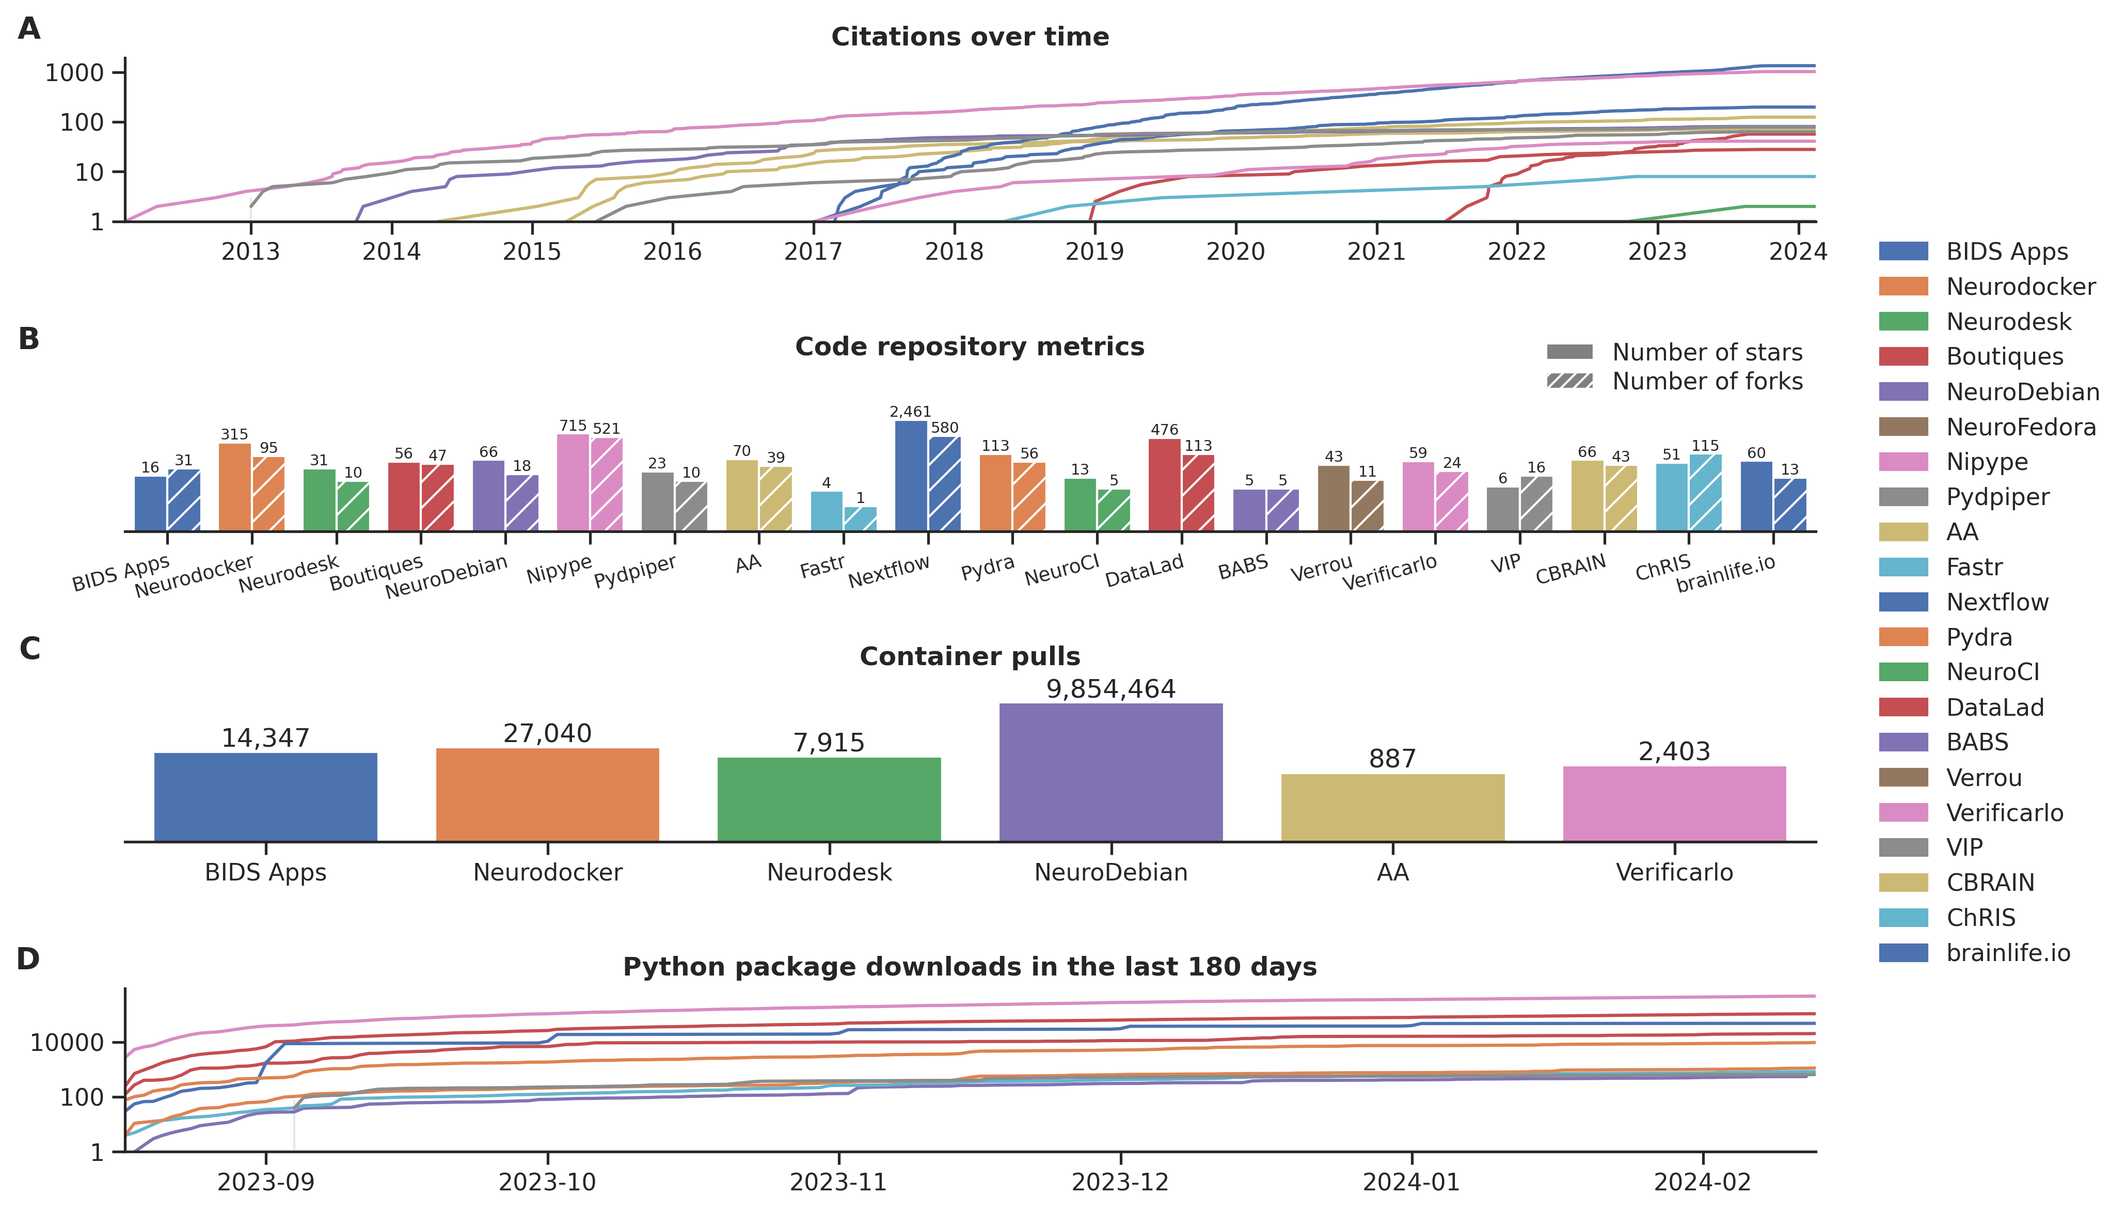
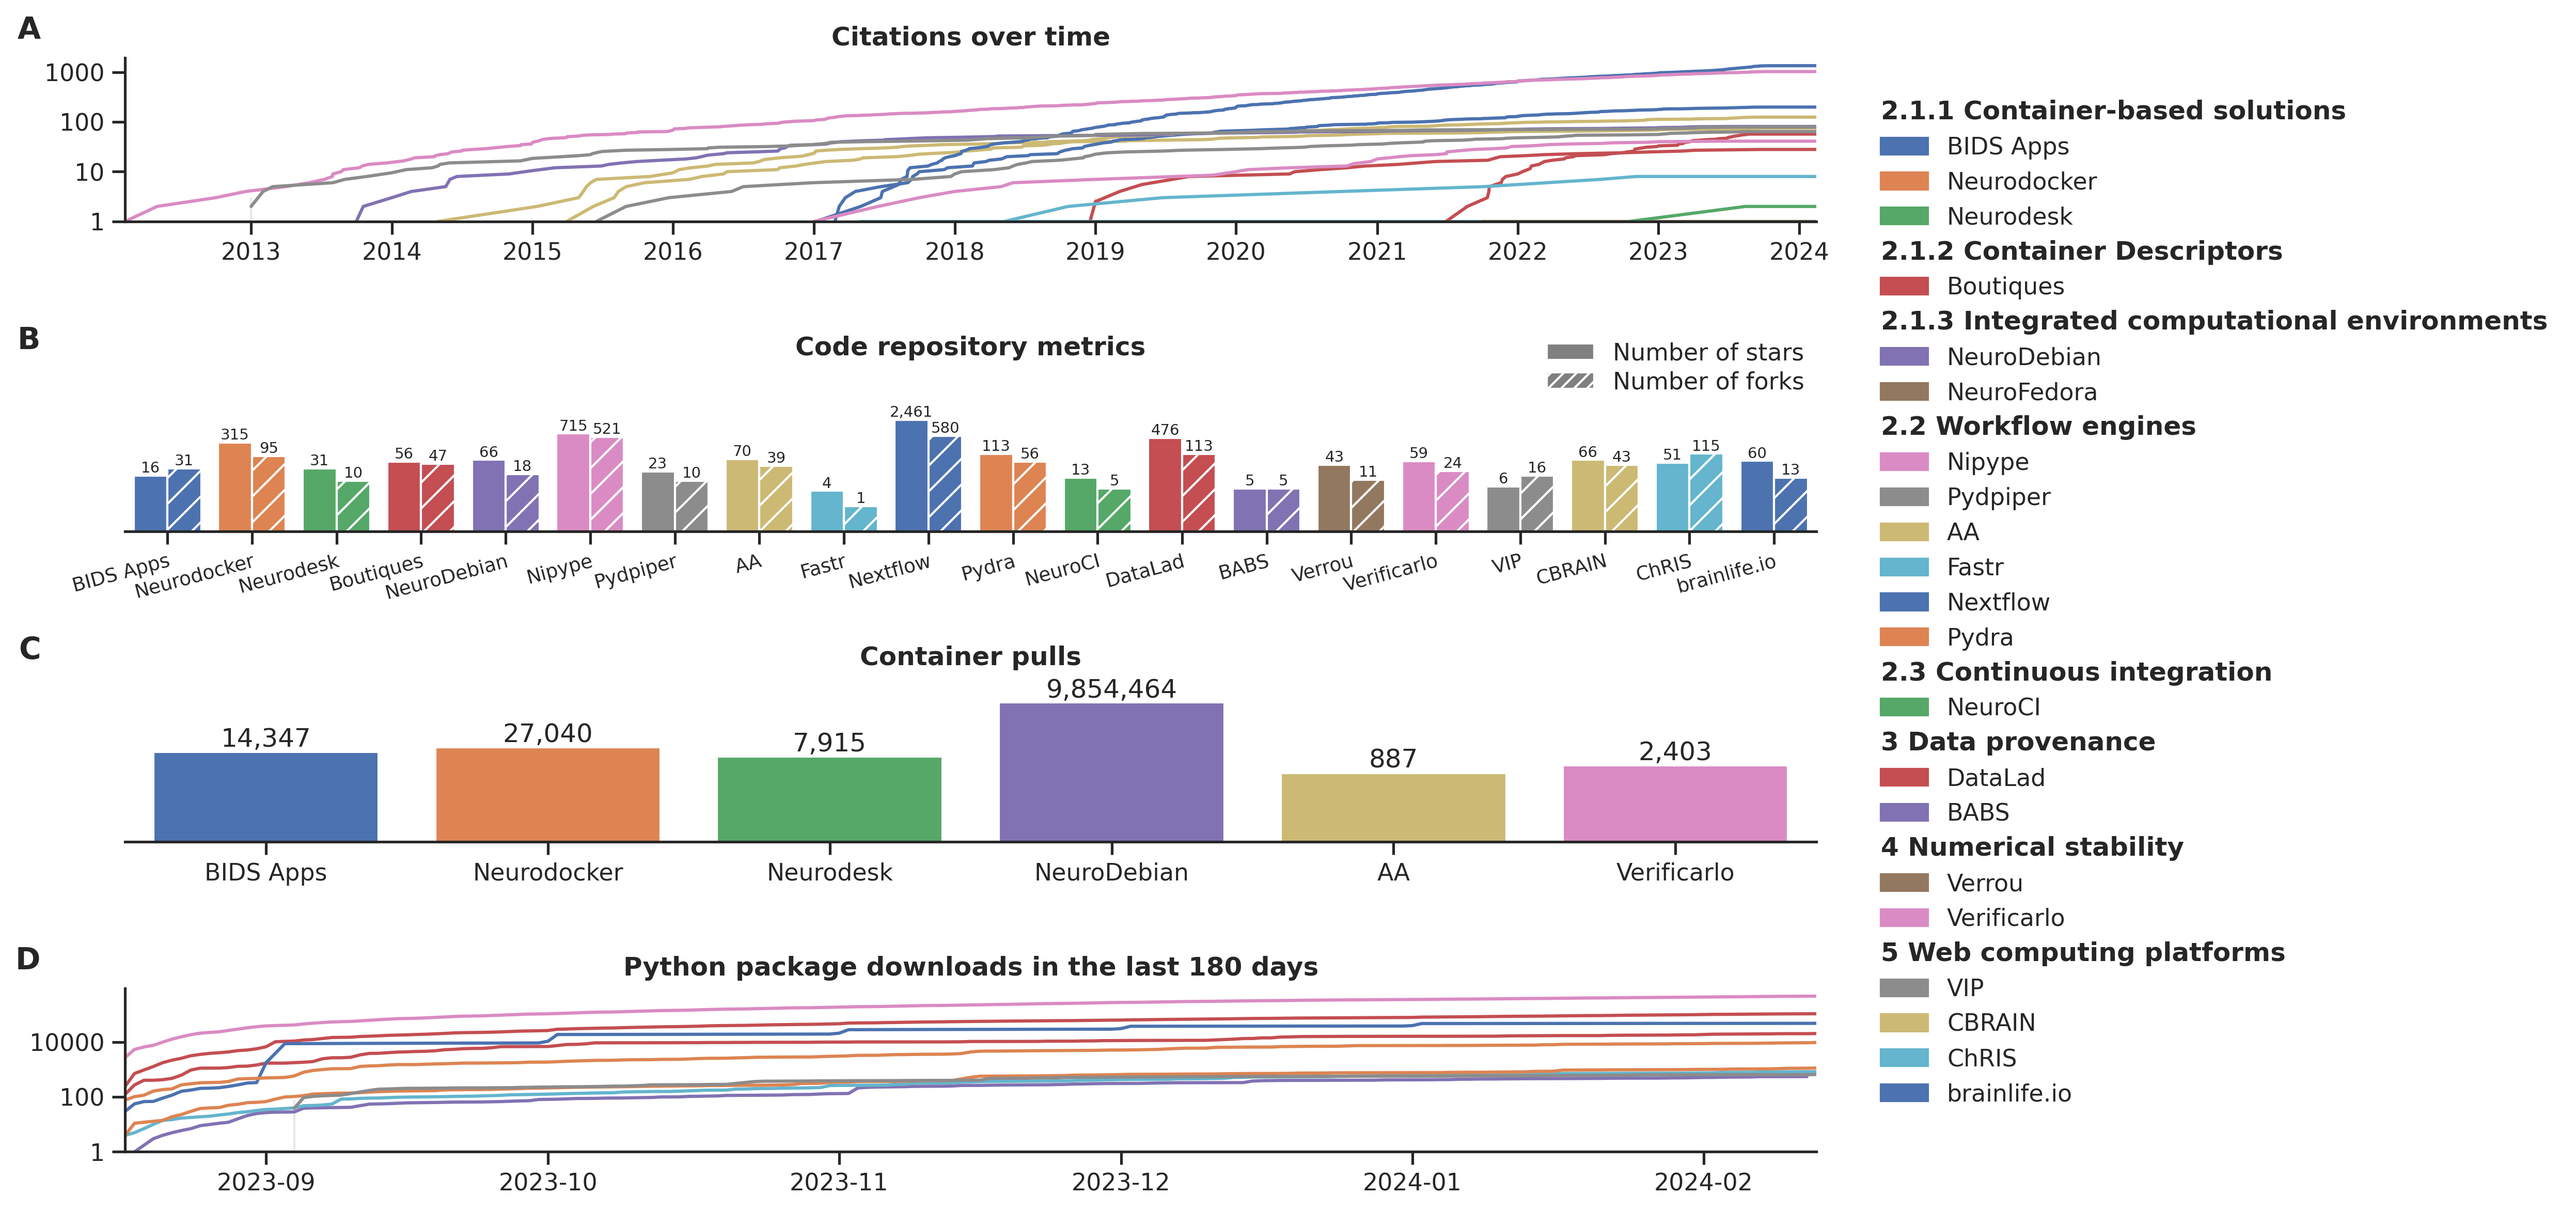
add legend subheadings if not splitting by section

diff --git a/code/plotting.py b/code/plotting.py
@@ -3,18 +3,35 @@ from typing import Mapping
 
 import matplotlib.patches as mpatches
 import matplotlib.pyplot as plt
+import matplotlib.text as mtext
 import pandas as pd
 import seaborn as sns
 from matplotlib.ticker import FormatStrFormatter
+from matplotlib.legend_handler import HandlerBase
 
-def add_legend(fig_or_ax: plt.Figure | plt.Axes, patch_args_by_label: Mapping[str, Mapping], title=None, **kwargs):
+class TextHandler(HandlerBase):
+    def __init__(self, text_props=None, **kwargs):
+        self.text_props = text_props or {}
+        super().__init__(**kwargs)
+
+    def create_artists(self, legend, orig_handle, xdescent, ydescent, width, height, fontsize, trans):
+        return [mtext.Text(xdescent, ydescent, orig_handle.get_text(),  **self.text_props)]
+
+def add_legend(fig_or_ax: plt.Figure | plt.Axes, patch_args_by_label: Mapping[str, Mapping], title=None, labels_by_section=None, section_label_padding=80, **kwargs):
     if 'title_fontproperties' not in kwargs:
         kwargs['title_fontproperties'] = {'weight': 'bold'}
-    legend_handles = [
-        mpatches.Patch(label=label, **patch_args)
-        for label, patch_args in patch_args_by_label.items()
-    ]
-    legend = fig_or_ax.legend(handles=legend_handles, **kwargs)
+    legend_handles = []
+    if labels_by_section is None or len(labels_by_section) == 0:
+        labels_by_section = {'': list(patch_args_by_label.keys())}
+    for section, labels in labels_by_section.items():
+        legend_handles.append(mtext.Text(text=section, label=' ' * section_label_padding))
+        legend_handles.extend([
+            mpatches.Patch(label=label, **patch_args_by_label[label])
+            for label in labels
+        ])
+    if len(labels_by_section) == 1:
+        legend_handles = legend_handles[1:] # no section title if only one section
+    legend = fig_or_ax.legend(handles=legend_handles, handler_map={mtext.Text: TextHandler(text_props={'weight': 'bold'})}, **kwargs)
     legend.set_title(title)
     return legend
 

diff --git a/code/generate_figures.py b/code/generate_figures.py
@@ -346,6 +346,7 @@ def generate_figures(
     dpath_figs.mkdir(exist_ok=True)
 
     if not split_by_section:
+        df_metrics_original = df_metrics.copy()
         df_metrics[COL_SECTION] = GROUPED_FIGURE_SECTION
 
     # process palette
@@ -451,6 +452,11 @@ def generate_figures(
                 palette=palette,
             )
 
+        labels_by_section = {}
+        if not split_by_section:
+            for section_, df_metrics_section_ in df_metrics_original.groupby(COL_SECTION):
+                labels_by_section[section_] = df_metrics_section_[COL_NAME].tolist()
+
         add_legend(
             fig,
             patch_args_by_label={
@@ -461,6 +467,7 @@ def generate_figures(
             },
             loc='center left',
             bbox_to_anchor=(1, 0.5),
+            labels_by_section=labels_by_section,
             frameon=False,
         )
 
